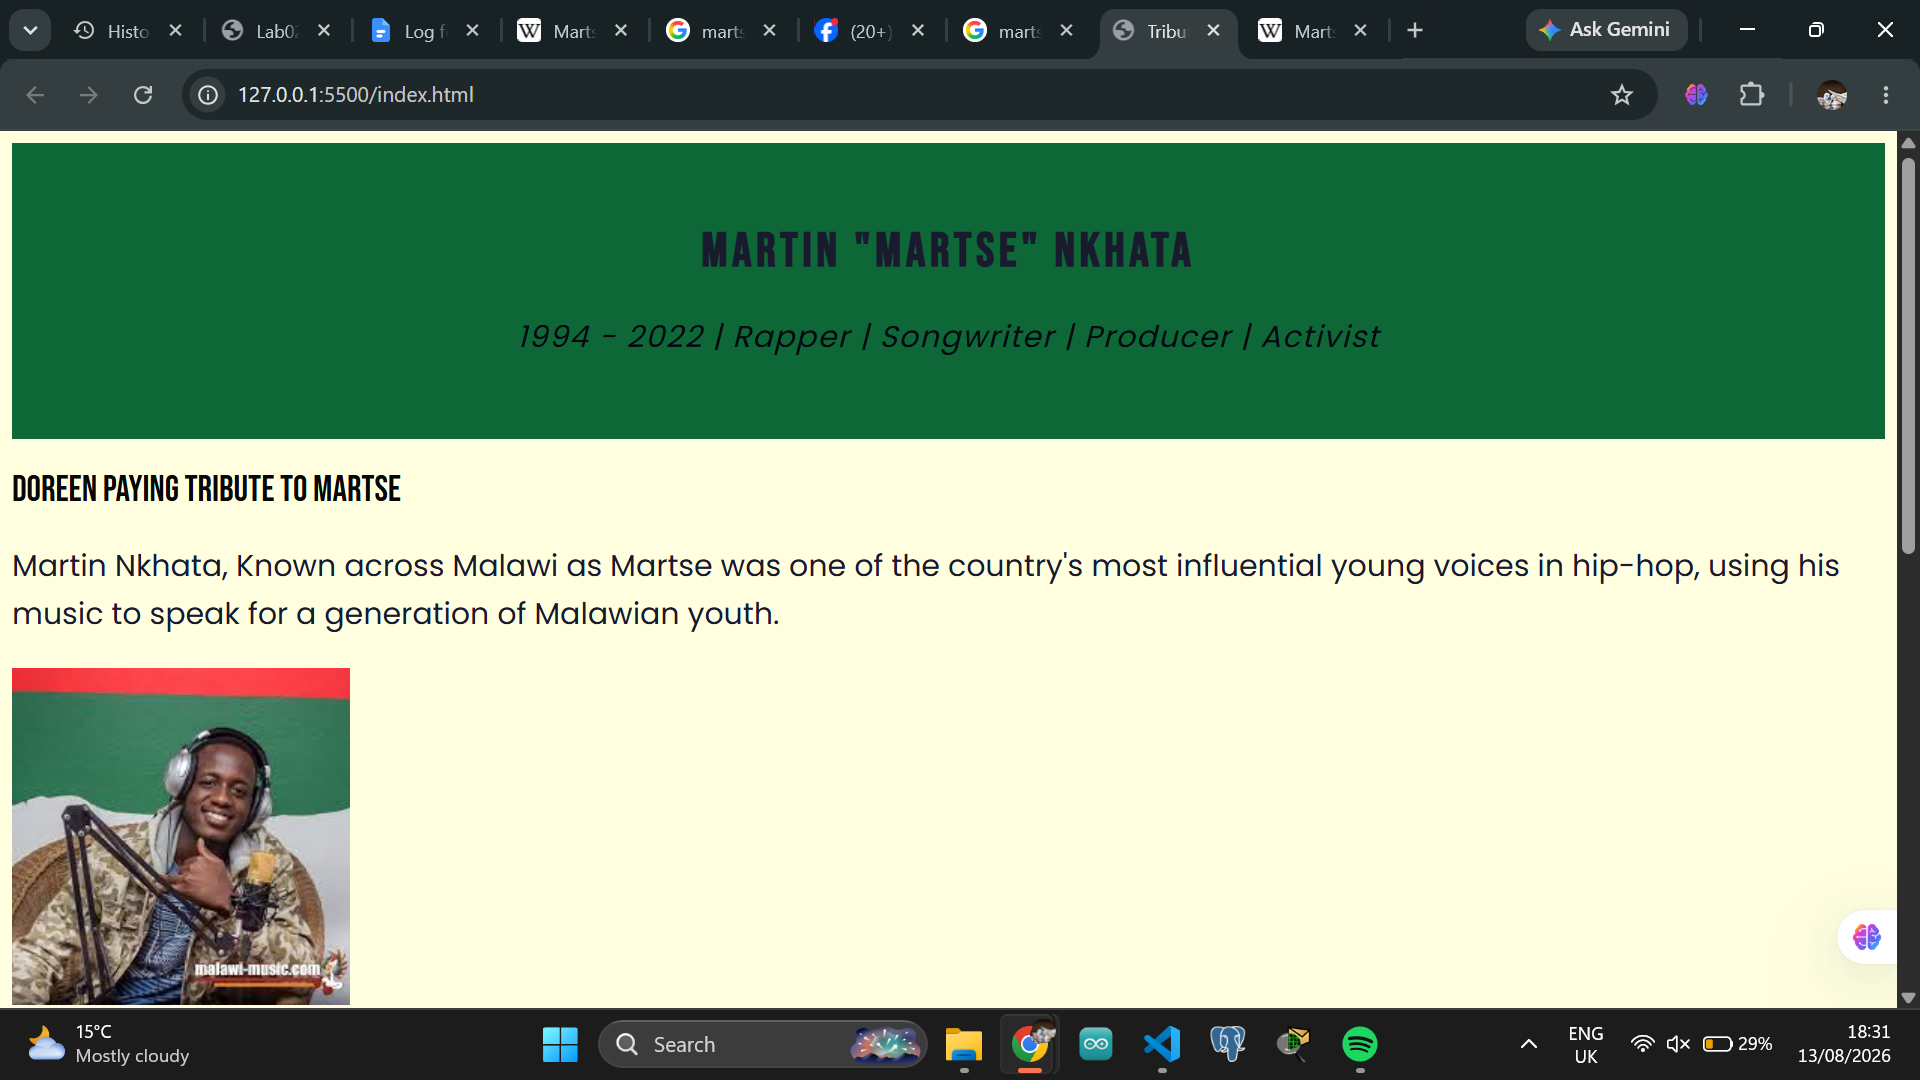
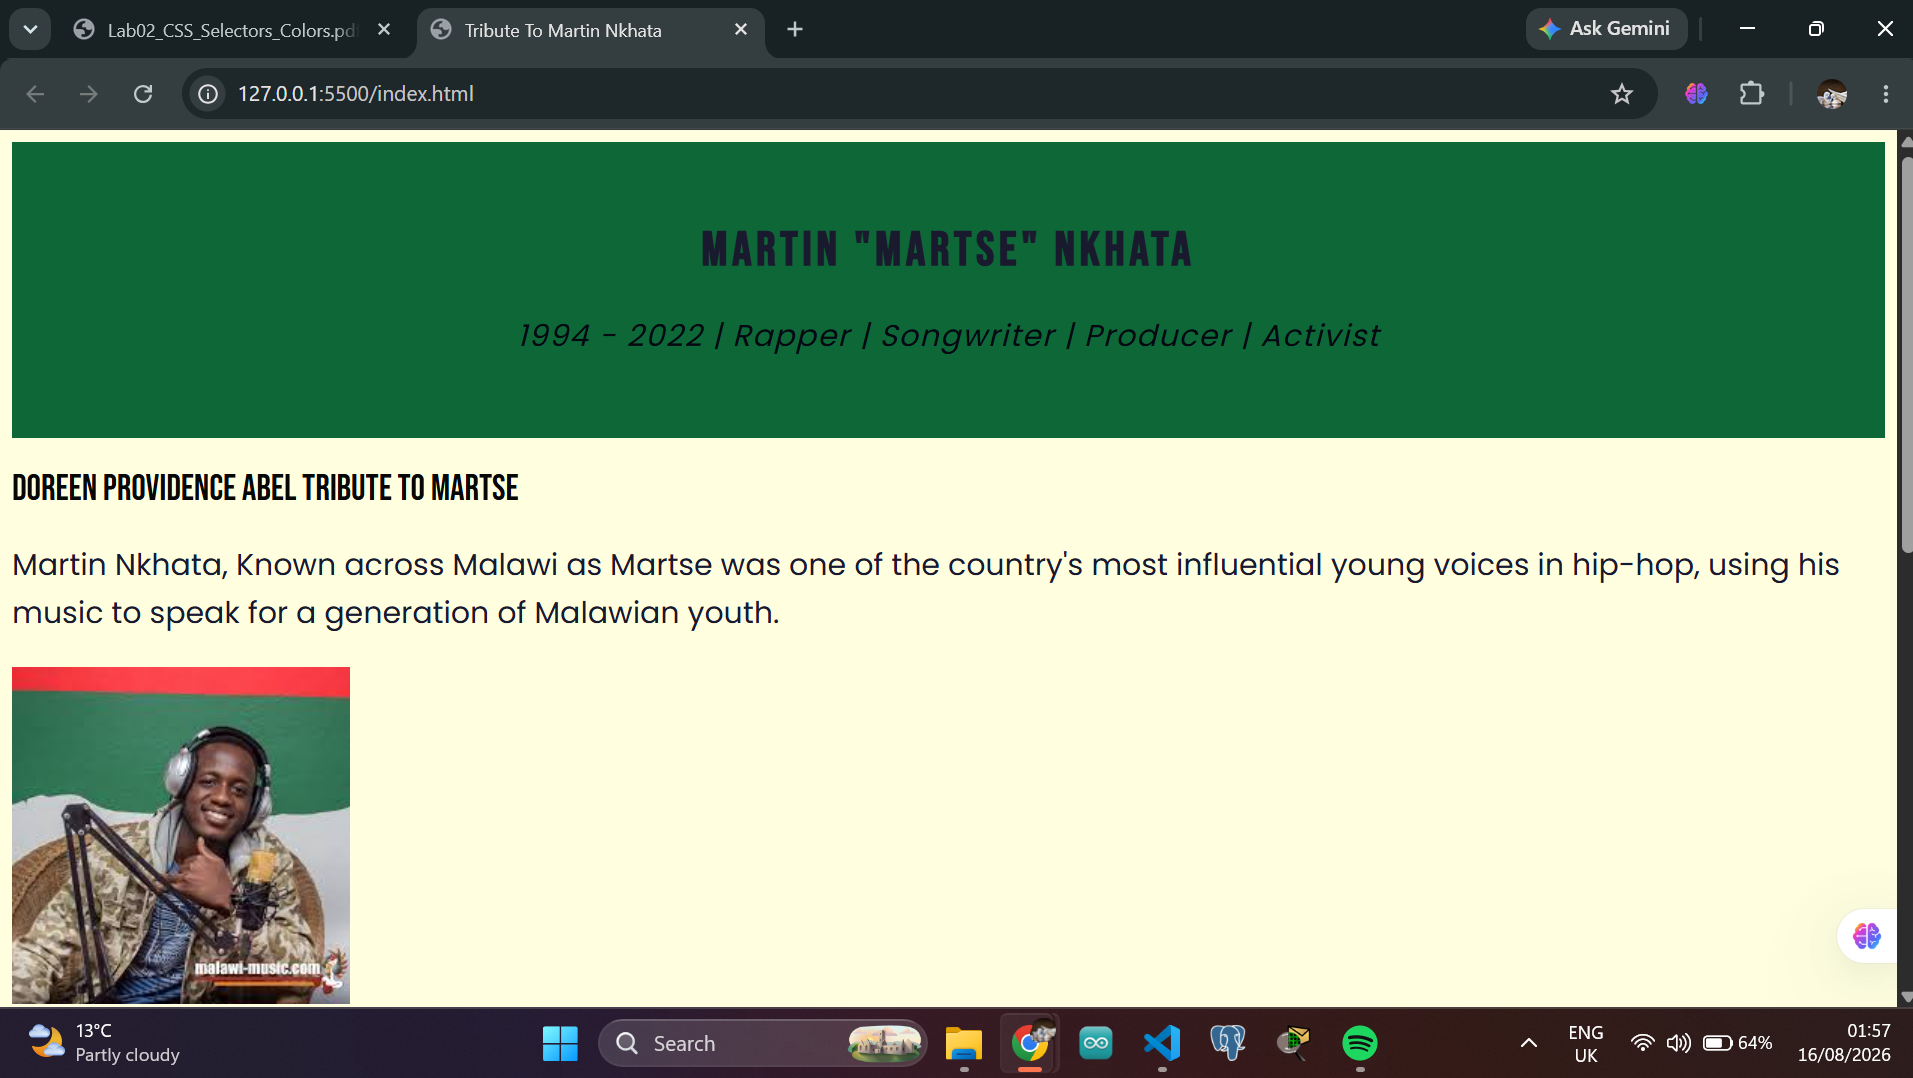
lab 2 final: tribute page complete

diff --git a/index.html b/index.html
@@ -23,7 +23,7 @@
 <body>
     <section class="bio">
         <!--<h1 style="color: red" ; font-size: 50px;>Tribute To Martin Nkhata(Martse)</h1> -->
-        <h2 class="important">Doreen paying tribute to Martse</h2>
+        <h2 class="important">Doreen Providence Abel tribute to Martse</h2>
         <p id="intro">Martin Nkhata, Known across Malawi as Martse
             was one of the country's most influential young voices in hip-hop,
             using his music to speak for a generation of Malawian youth. </p>

diff --git a/Reflection.md b/Reflection.md
@@ -1,0 +1,8 @@
+#Reflections
+6. It will be blue this is so as the class has a higher priority compared to the element.
+7. rem stands for Root EM, since rem is a relative unit which is tied to the root font-size which is controlled by the default browser's settings this respects the user's explicit preference rather than overriding it since px is an absolute unit. Since every rem value is recalculated against the new root value the value will increase as 20/16 = 1.25X.
+8. As everytime the html loads, in the link tag a request is made to a separate network and when this fails to fetch html gives up and uses tha capability of font family to use the next font in the family that is inbuilt in css.
+9. H - Hue 0 to 360 degrees this controls the xolour itself e.g 0 is red.
+S - Saturation 0 to 100%, this i sthe itensity of the color e.g 0% is gray.
+L - Lightness 0 to 100% this is how light or dark with 0% being black
+To make hsl(120, 100%, 50%) much lighter the lighness has to be around 85 to 90%, for example it can now be hsl(120, 100%, 685%).

diff --git a/LOG.md b/LOG.md
@@ -27,5 +27,8 @@ Steps I took to fix it:
 What I learned from this:
 Git's default branch name depends on local configuration, not the remote — it's worth checking git branch and git remote -v before pushing to a new repo instead of assuming they match.
 
-![Screenshot for Tribute](image.png)
-
+## session reflection
+The concept i fpund hardesr to understand during this session was the difference between rem, em and px.
+the moment it clicked was when i was able to have a complete working tribute page.
+One question i still have is: why do we have to create a folder for the css style instead of it being in the same root folder as index?
+ my browser output screenshot filename: ![Screenshot for Martse Tribute](image.png)
